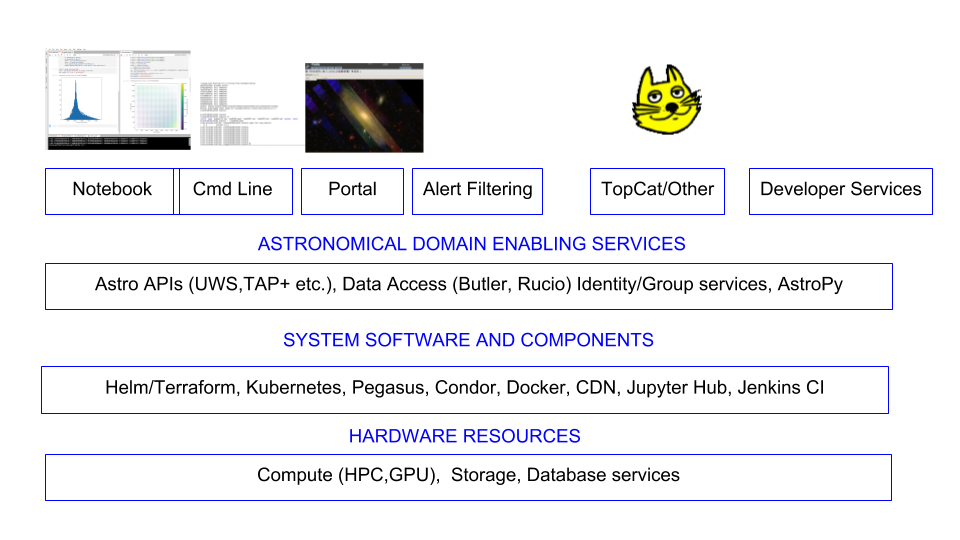
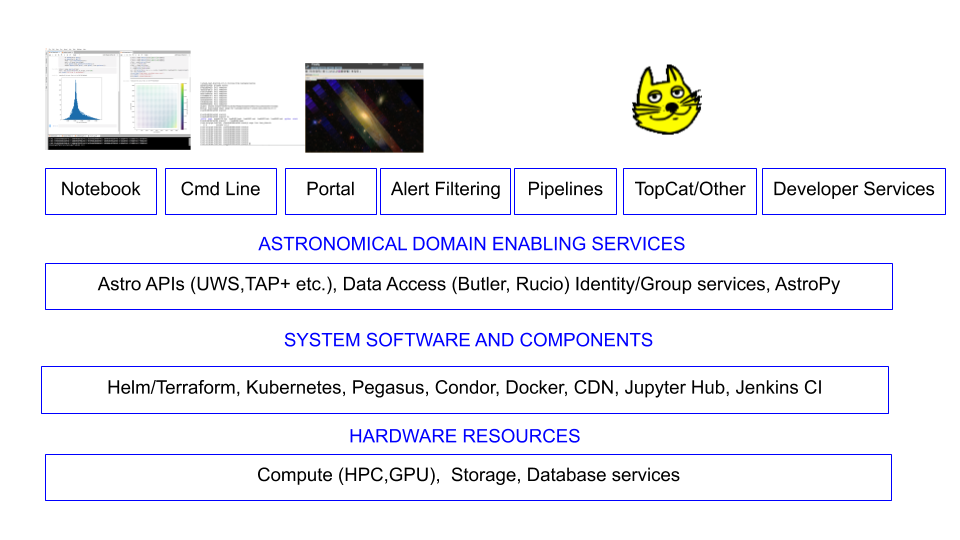
update CI-LSST include pipelines

diff --git a/README.md b/README.md
@@ -14,7 +14,7 @@ You should have this in the root of dm-docs - other docs will sym link to it as 
 <tr><td> <img src="AstronomerCartoon.png" alt=" AstronomerCartoon.png" width="200"><td>AstronomerCartoon.png <td> Cartoon about astronomers not using telescopes (Zeljko)
 <tr><td> <img src="BarringerCrater.png" alt=" BarringerCrater.png" width=200><td>BarringerCrater.png  <td> Picture of Barringer crater used in meteor slides .. it shows to scale Statue of Liberty and LSST in the crater (Zeljko)
 <tr><td> <img src="Blast_20-full.jpg" alt=" Blast_20-full.jpg" width=200><td>Blast_20-full.jpg<td> Photo showing blast on top  Cerro Pachon during the leveling of the peak
-<tr><td> <img src="CI-LSST.png" alt=" CI-LSST.png" width=200><td>CI-LSST.png<td> Cyber Infrastructure Layers for LSST
+<tr><td> <img src="CI-LSST.png" alt=" CI-LSST.png" width=200><td>CI-LSST.png<td> Cyber Infrastructure Layers for LSST <a href=https://docs.google.com/presentation/d/16w5WVe-_xNLXWudNKqJu9IEKGDQ8oIB0eDiqWP_SUnE/edit#slide=id.p>(Original)</a>
 <tr><td> <img src="thumbs/CI-Layers.jpg" alt=" CI-Layers.pdf" width=200><td>CI-Layers.pdf<td> Cyber Infrastructure Layers generic - Niall Gaffney 
 <tr><td> <img src="CMB.png" alt=" CMB.png" width=200><td>CMB.png<td> Lambda CDM graphic showing the big bang through to WMAP
 <tr><td> <img src="CatVolTime.png" alt=" CatVolTime.png" width=200><td>CatVolTime.png<td> Volume of catalog data over time from LDM-144
